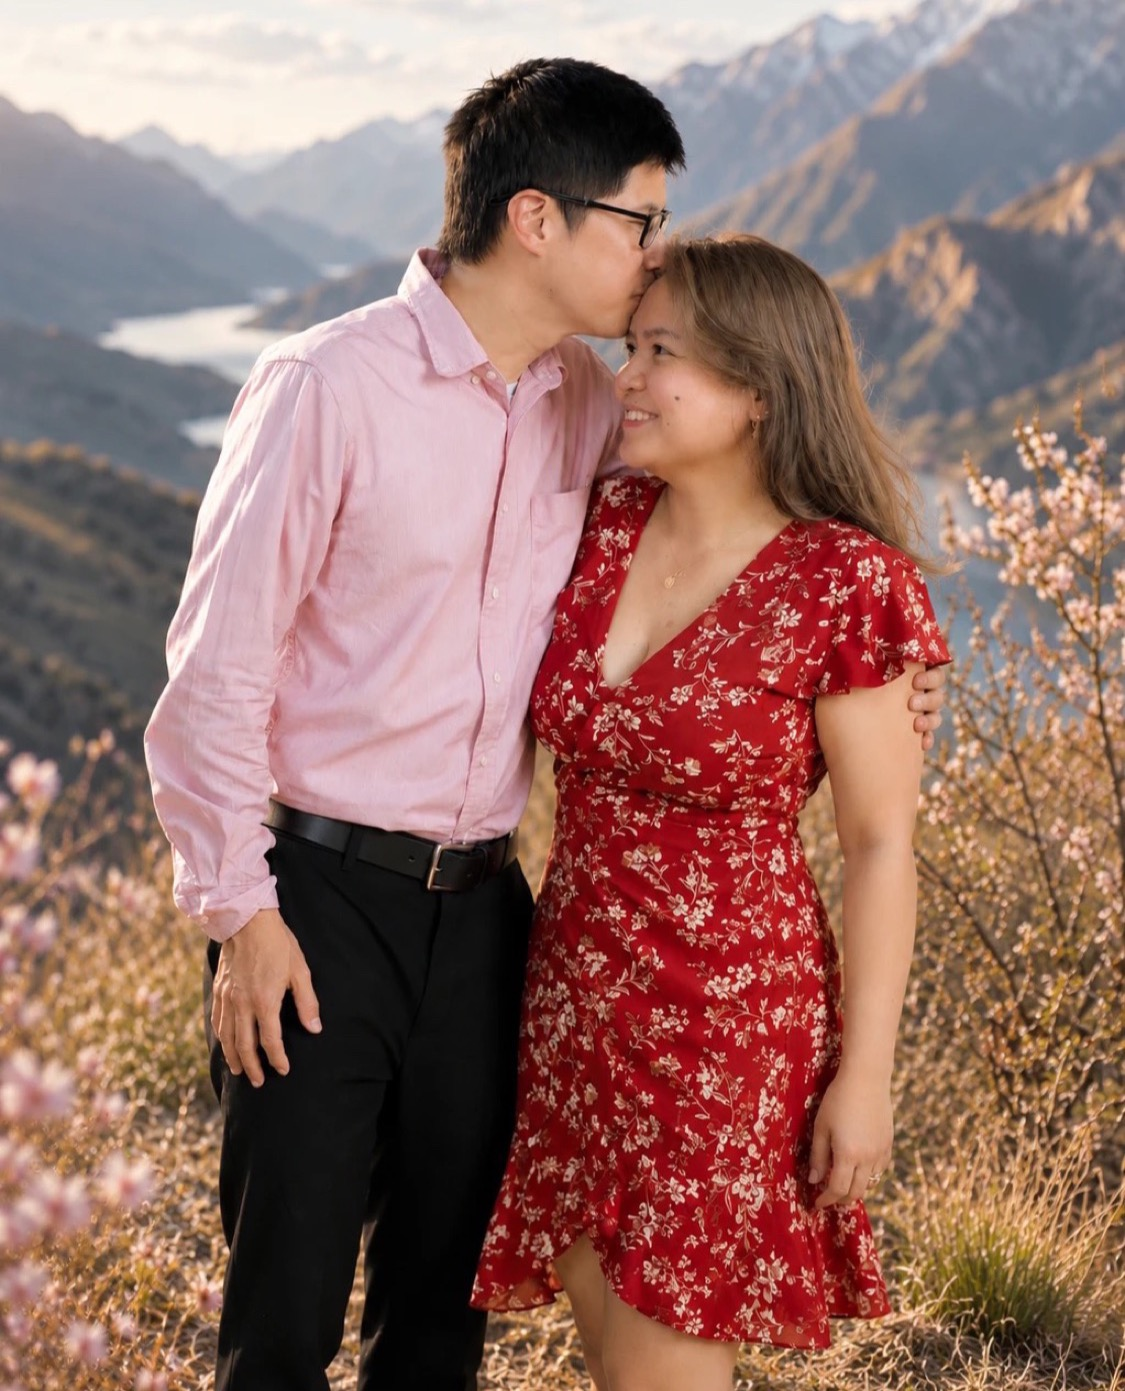
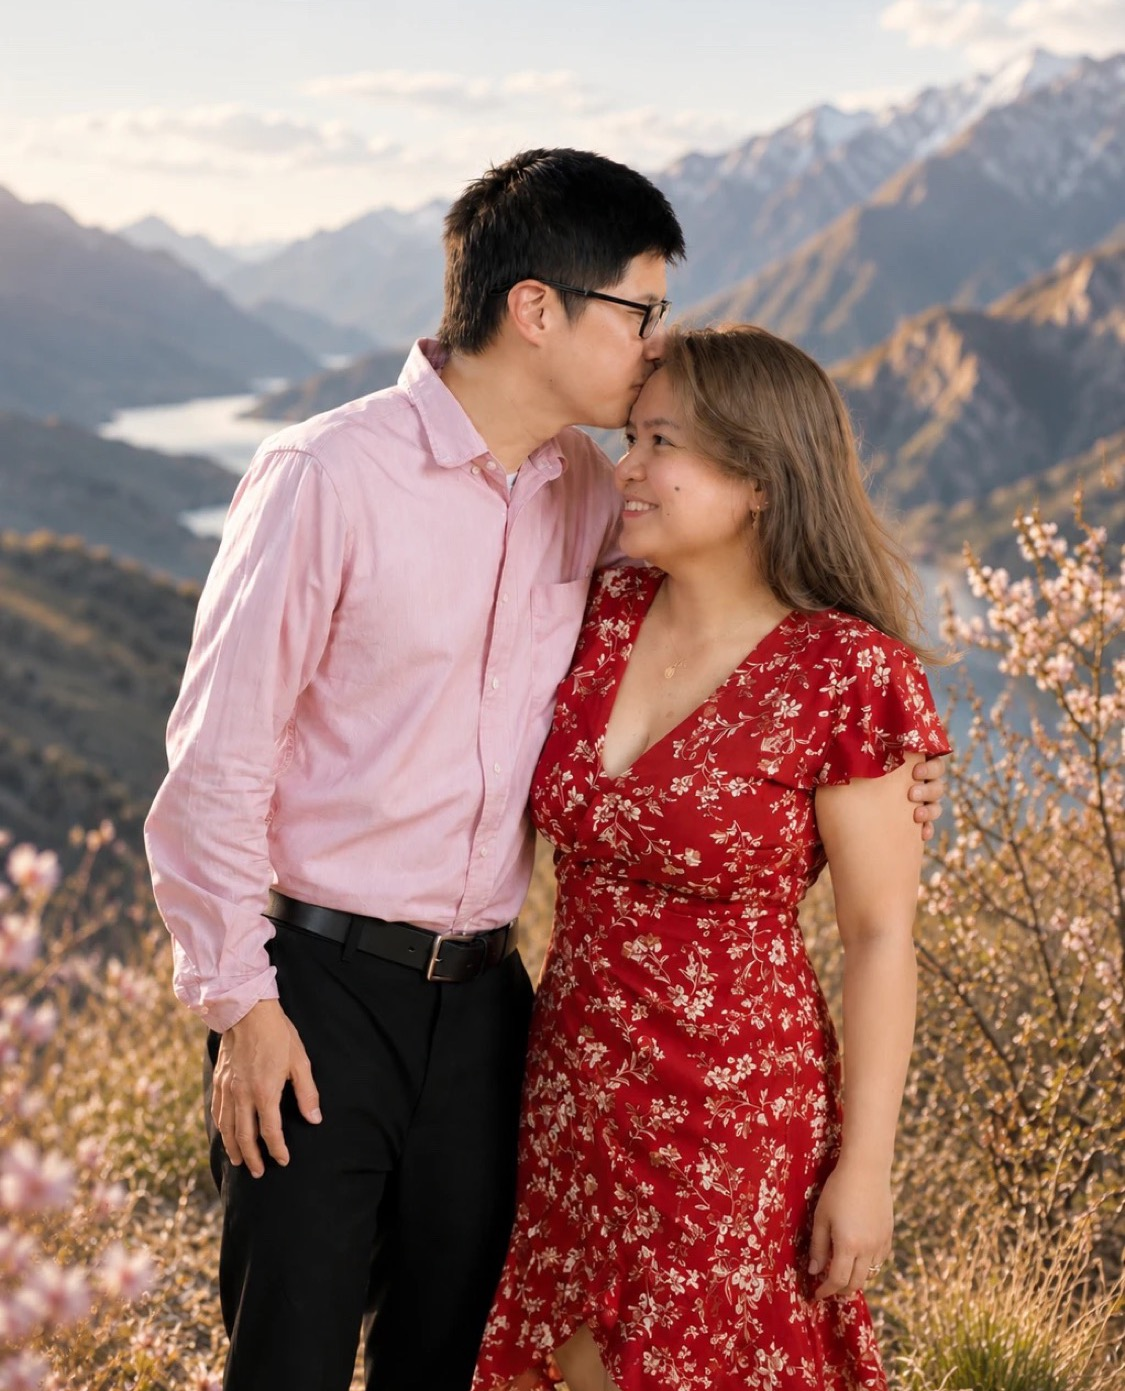
Pull the hero back: use the whole frame, not a 3:4 crop
The hero is object-fit:cover on a full-height container, so the wider
the file the harder it crops the sides. Trimming to 3:4 made it wider
than Joy's original and the phone then cut the lake and the blossom off
to fill the height.

Using the uncropped 1023x1538 frame instead - narrower, closer to a
phone, so a third less is cut. The mountains and the lake are back.

diff --git a/index.html b/index.html
@@ -2131,7 +2131,7 @@ details[open] > .hire-steps{display:flex; flex-direction:column; gap:11px; paddi
   }
 })();
 
-const BUILD = "202610070739";
+const BUILD = "202610070747";
 document.documentElement.dataset.build = BUILD;
 (async () => {
   try {
